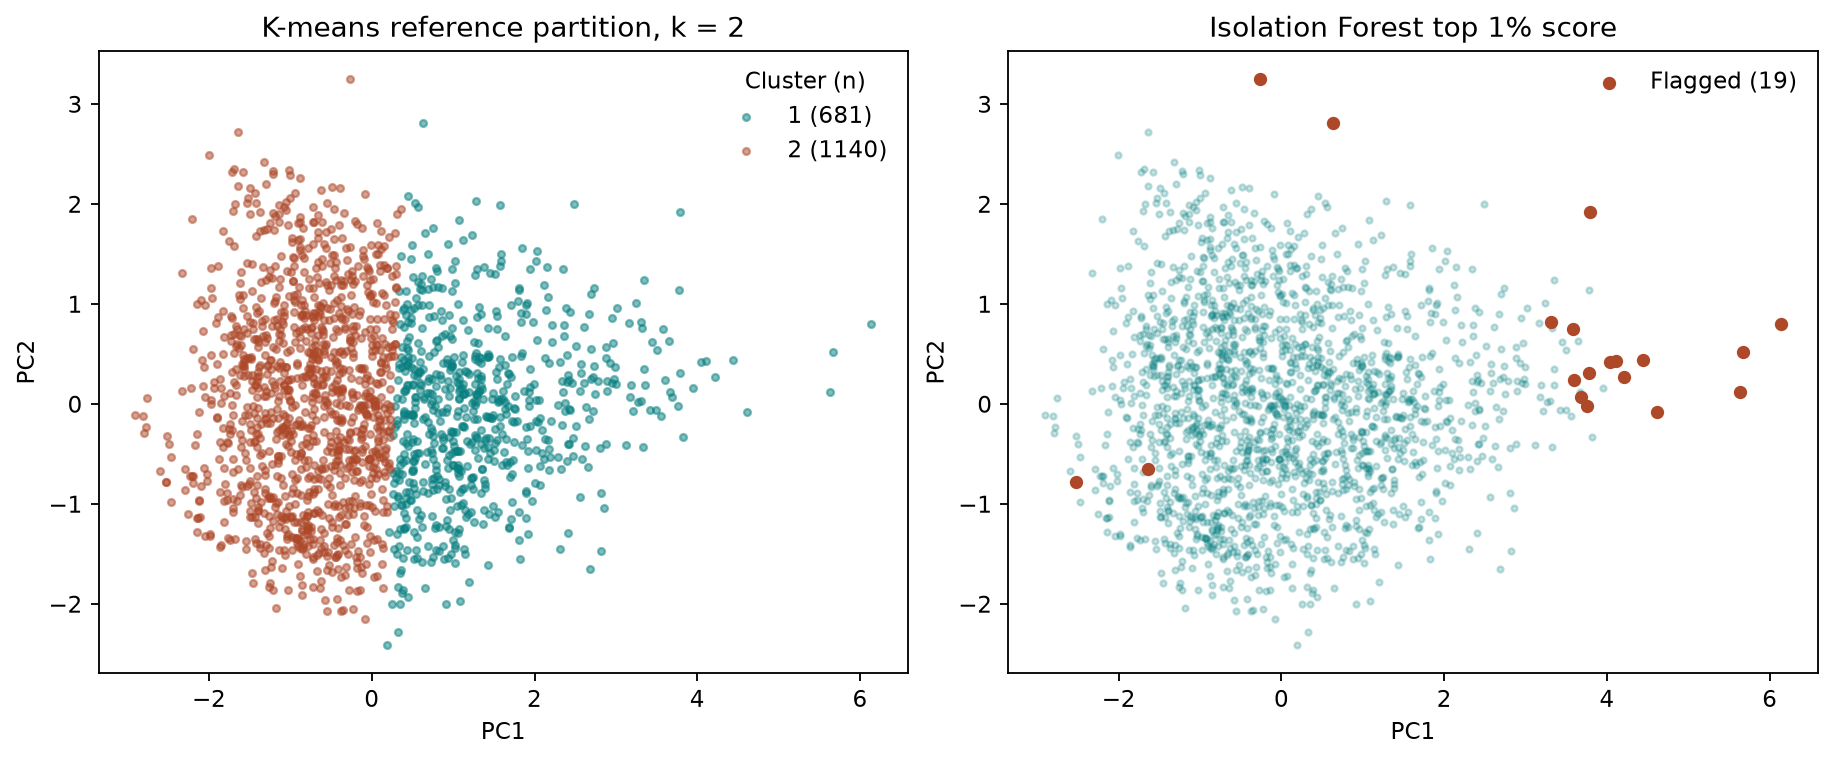
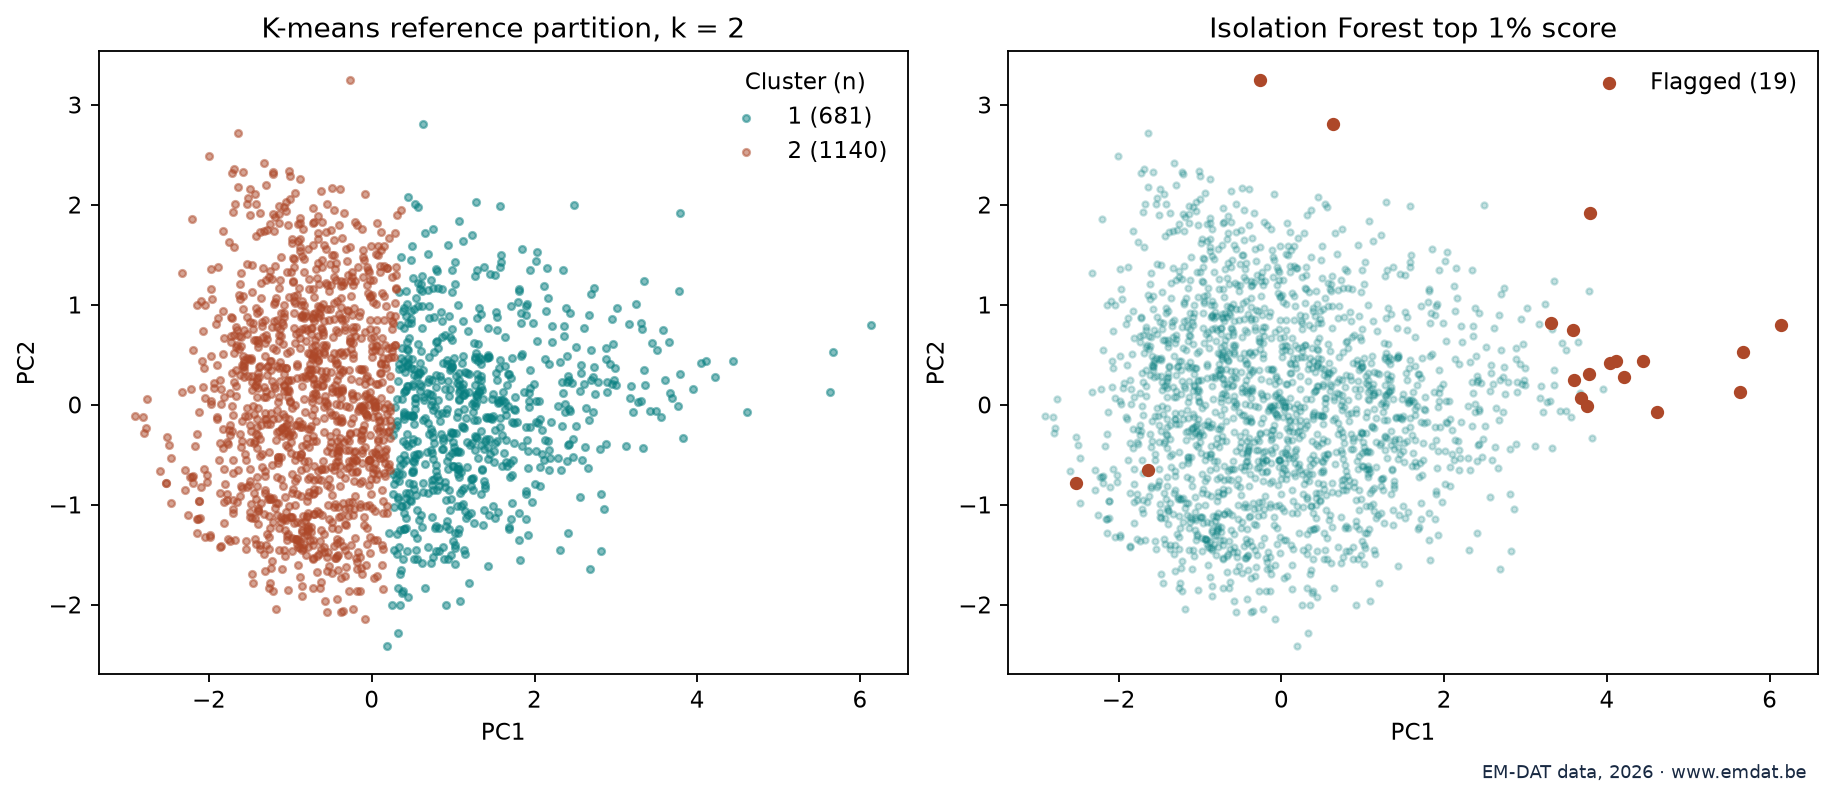
Refine final visualizations and verify dashboard rendering

diff --git a/src/statistics.py b/src/statistics.py
@@ -55,8 +55,8 @@ def correlation_table(summary, rng, draws=2000):
                                  coefficient=result.statistic, p_raw=p, ci_low=lo, ci_high=hi))
     result = pd.DataFrame(rows)
     result["p_holm"] = None
-    confirmatory_family = result["method"].eq("Spearman") & result["statistic"].ne("winsor_mean")
-    result.loc[confirmatory_family, "p_holm"] = holm(result.loc[confirmatory_family, "p_raw"])
+    primary_family = result["method"].eq("Spearman") & result["statistic"].ne("winsor_mean")
+    result.loc[primary_family, "p_holm"] = holm(result.loc[primary_family, "p_raw"])
     return result
 
 
@@ -76,6 +76,7 @@ def distribution_tests(events):
 
 
 def save(fig, name):
+    fig.text(.99, -.035, "EM-DAT data, 2026 · www.emdat.be", ha="right", fontsize=8, color=INK)
     fig.savefig(OUT / "figures" / f"{name}.png", dpi=165, bbox_inches="tight",
                 facecolor="white")
     plt.close(fig)
@@ -94,10 +95,13 @@ def figures(events, summary, correlations):
             leader = eligible.loc[eligible[stat].idxmax()]
             frequent = eligible.loc[eligible.events.idxmax()]
             for label, point in {point[TYPE]: point for point in (leader, frequent)}.items():
+                at_left = point.events < 3
                 ax.annotate(label, (point.events, point[stat]),
-                            xytext=(-3, -13), textcoords="offset points", ha="right", fontsize=8)
+                            xytext=(4 if at_left else -3, -13), textcoords="offset points",
+                            ha="left" if at_left else "right", fontsize=8)
             ax.set(xscale="log", yscale="symlog", title=f"{SHORT[metric]} · {stat}",
-                   xlabel="Recorded events" if row == 2 else "", ylabel=METRICS[metric])
+                   xlabel="Recorded events" if row == 2 else "", ylabel=METRICS[metric],
+                   ylim=(-.03, 1.8 * eligible[stat].max()))
     fig.suptitle("Frequency and reported impact, 1900–2026", fontsize=17, x=.01, ha="left")
     fig.supxlabel("One point per hazard type. Point size scales with reporting coverage. EM-DAT, 2026 partial.", fontsize=9)
     save(fig, "frequency_vs_impact")

diff --git a/src/model.py b/src/model.py
@@ -157,13 +157,14 @@ def run():
         ax.legend(frameon=False, fontsize=8)
     fig.supxlabel(f"2022–2025 | n = {len(test):,} | {int(y.sum())} events with at least {THRESHOLD} reported deaths", fontsize=9)
     save(fig, "model_evaluation")
+    with (PROCESSED / "natural_disaster_events.csv").open("rb") as event_csv:
+        event_digest = hashlib.file_digest(event_csv, "sha256").hexdigest()
     payload = {
         "seed": SEED, "threshold_deaths": THRESHOLD, "features": FEATURES, "selected": selected,
         "splits": {name: dict(years=years, events=len(frame), positives=int(frame.high_mortality.sum()))
                    for (name, years), frame in zip(SPLITS.items(), (train, val, test))},
         "validation": valid, "test": performance, "selected_test_ci": heldout_intervals(y, test_scores[selected]),
-        "source_event_csv_sha256": hashlib.file_digest(
-            (PROCESSED / "natural_disaster_events.csv").open("rb"), "sha256").hexdigest(),
+        "source_event_csv_sha256": event_digest,
         "versions": {package: version(package) for package in ["scikit-learn", "numpy", "pandas", "shap"]},
     }
     joblib.dump(models[selected], OUT / "mortality_model.joblib")

diff --git a/dashboard/app.py b/dashboard/app.py
@@ -111,7 +111,7 @@ def geography(frame, world):
     fig = px.choropleth_map(table.dropna(subset=[value]), geojson=world, locations="ISO", color=value,
                             hover_name="Country", hover_data=["reported", "records", "Reporting coverage"],
                             labels={value: choice}, color_continuous_scale="Teal", map_style="white-bg",
-                            zoom=0.55, center={"lat": 19, "lon": 10}, height=480)
+                            zoom=1.0, center={"lat": 17, "lon": 0}, height=480)
     draw(fig, "country_map")
     tabs = st.tabs(["Country rankings", "Regional comparison", "Unmapped records"])
     with tabs[0]:
@@ -129,7 +129,7 @@ def geography(frame, world):
 def main():
     st.set_page_config(page_title="When Nature Strikes", layout="wide")
     st.title("When Nature Strikes")
-    st.caption("EM-DAT · CRED / UCLouvain · 23 October 2026 export")
+    st.caption("[EM-DAT data](https://www.emdat.be/) · CRED / UCLouvain · 23 October 2026 export")
     try:
         events, impacts, world = data()
     except FileNotFoundError:

diff --git a/docs/STATISTICAL_ANALYSIS.md b/docs/STATISTICAL_ANALYSIS.md
@@ -36,3 +36,9 @@ total mortality leaders in 2000–2025. Capping extreme losses changes the
 full-window mean adjusted damage leader from earthquake to extreme temperature,
 and the recent leader from earthquake to drought. Compare these sensitivity
 checks before interpreting any ranking as stable.
+
+At the exploratory 0.05 familywise threshold, the full-window total
+associations meet the cutoff for deaths (adjusted p = 0.0104) and affected
+population (0.0009). Adjusted damage total has p = 0.0749 in the full record
+and p = 0.0018 in 2000–2025. No mean or median comparison meets that threshold
+in either window. See the [coefficient and interval table](../results/correlations.csv).
